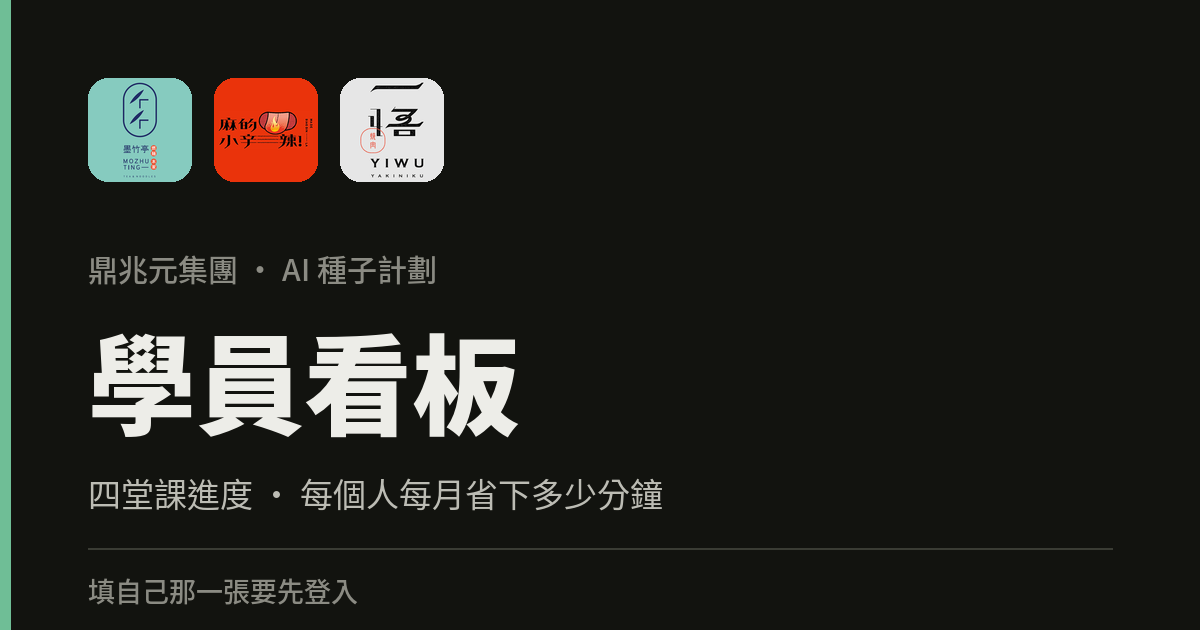
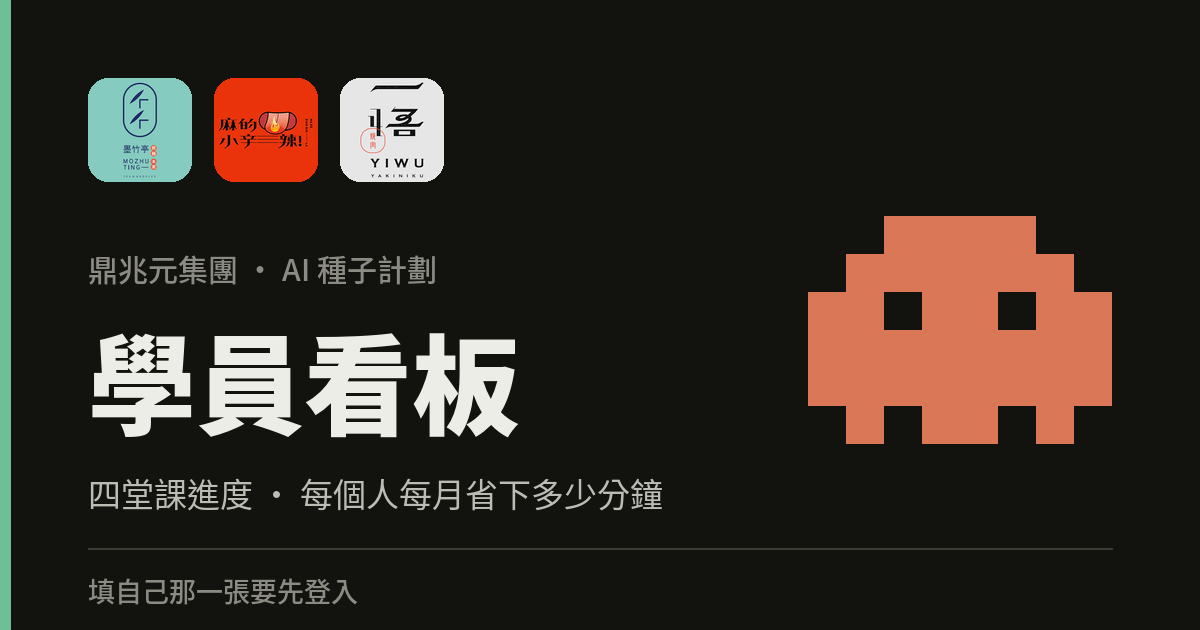
LINE 預覽卡也放上像素小人
- _mkog.py 改 import _mkicon 的 GRID/FG，點陣只留一份，
  日後改造型 favicon 與預覽卡自動同步
- _mkicon.py 產圖動作包進 __main__，被 import 時不會觸發產圖
- logo 放右側 38px 一格，左右邊距對稱 88px；44px 那版會壓過主標題
- _mkog.py 產完圖自動更新 index.html 的 og:image 版本戳，
  LINE／FB 重抓時不會拿到 CDN 舊圖。參數名固定 t——?v= 會讓 og:title 消失

Changed region(s): [[0.6475, 0.3317, 0.925, 0.7238]]

diff --git a/index.html b/index.html
@@ -10,7 +10,7 @@
 <meta property="og:site_name" content="鼎兆元集團 · AI 種子計劃">
 <meta property="og:title" content="種子計劃｜學員看板">
 <meta property="og:description" content="16 位學員的四堂進度、每個人每月省下多少分鐘。填自己那一張要先登入。">
-<meta property="og:image" content="https://eason0728.github.io/ai-seed/og-board.png">
+<meta property="og:image" content="https://eason0728.github.io/ai-seed/og-board.png?t=202609040154">
 <meta property="og:image:width" content="1200">
 <meta property="og:image:height" content="630">
 <meta name="twitter:card" content="summary_large_image">

diff --git a/_mkog.py b/_mkog.py
@@ -1,5 +1,6 @@
 # 產 LINE／FB 連結預覽用的 1200x630 卡片圖。改標題文案後重跑一次。
 from PIL import Image, ImageDraw, ImageFont
+from _mkicon import GRID, FG, COLS, ROWS   # 像素小人的點陣與橘色，與 favicon 同一份
 F='/Users/guoeason/Library/Fonts/NotoSansCJKtc-%s.otf'
 BG=(18,19,15); INK=(237,237,232); INK2=(188,188,180); INK3=(139,139,131); ACC=(111,190,150)
 W,H=1200,630
@@ -24,5 +25,29 @@ d.text((88,300),'學員看板',font=f_big,fill=INK)
 d.text((88,468),'四堂課進度 · 每個人每月省下多少分鐘',font=f_sub,fill=INK2)
 d.line([88,548,1112,548],fill=(58,60,52),width=2)
 d.text((88,570),'填自己那一張要先登入',font=f_ft,fill=INK3)
+# 右側：像素小人（與 favicon 同一個點陣，不畫底，直接浮在深色卡上）
+PX=38; MARGIN=88          # 右邊距與左側文字的 x=88 對稱
+ox = W - MARGIN - PX*COLS
+oy = 330 - PX*ROWS//2     # 中心略高於文字塊中心，視覺較穩
+for r,line in enumerate(GRID):
+    c=0
+    while c < COLS:
+        if line[c]=='#':
+            n=0
+            while c+n < COLS and line[c+n]=='#': n+=1
+            d.rectangle([ox+c*PX, oy+r*PX, ox+(c+n)*PX-1, oy+(r+1)*PX-1], fill=FG)
+            c+=n
+        else:
+            c+=1
+
 im.save('og-board.png',optimize=True)
 print('og-board.png', im.size)
+
+# 產完圖順手把 index.html 的 og:image 版本戳換掉，LINE／FB 重抓時才不會拿到 CDN 的舊圖。
+# 參數名固定用 t 不能用 v——實測 ?v= 會讓 og:title 整個消失（平台把 v 當版本參數）。
+import re, time
+_st = time.strftime('%Y%m%d%H%M')
+_h = open('index.html').read()
+_h2 = re.sub(r'(og-board\.png)(\?t=\d+)?"', r'\1?t=%s"' % _st, _h)
+open('index.html','w').write(_h2)
+print('og:image 版本戳 →', _st)

diff --git a/_mkicon.py b/_mkicon.py
@@ -61,10 +61,11 @@ def svg():
             '  <g fill="#%02X%02X%02X">\n%s\n  </g>\n</svg>\n'
             % (radius, *BG, *FG, rects))
 
-open('favicon.svg', 'w').write(svg())
-for s in (16, 32):
-    png(s).convert('RGB').save('favicon-%d.png' % s, optimize=True)
-png(180, radius_ratio=0).convert('RGB').save('apple-touch-icon.png', optimize=True)
-png(512).convert('RGB').save('/private/tmp/claude-501/-Users-guoeason-Desktop-Claude/c161af32-ed18-4fda-abf9-c4403cab8acd/scratchpad/_icon-preview.png')
-png(64).convert('RGB').save('favicon.ico', sizes=[(16,16),(32,32),(48,48)])
-print('ok:', COLS, 'x', ROWS, 'grid')
+if __name__ == '__main__':
+    open('favicon.svg', 'w').write(svg())
+    for s in (16, 32):
+        png(s).convert('RGB').save('favicon-%d.png' % s, optimize=True)
+    png(180, radius_ratio=0).convert('RGB').save('apple-touch-icon.png', optimize=True)
+    png(512).convert('RGB').save('/private/tmp/claude-501/-Users-guoeason-Desktop-Claude/c161af32-ed18-4fda-abf9-c4403cab8acd/scratchpad/_icon-preview.png')
+    png(64).convert('RGB').save('favicon.ico', sizes=[(16,16),(32,32),(48,48)])
+    print('ok:', COLS, 'x', ROWS, 'grid')
